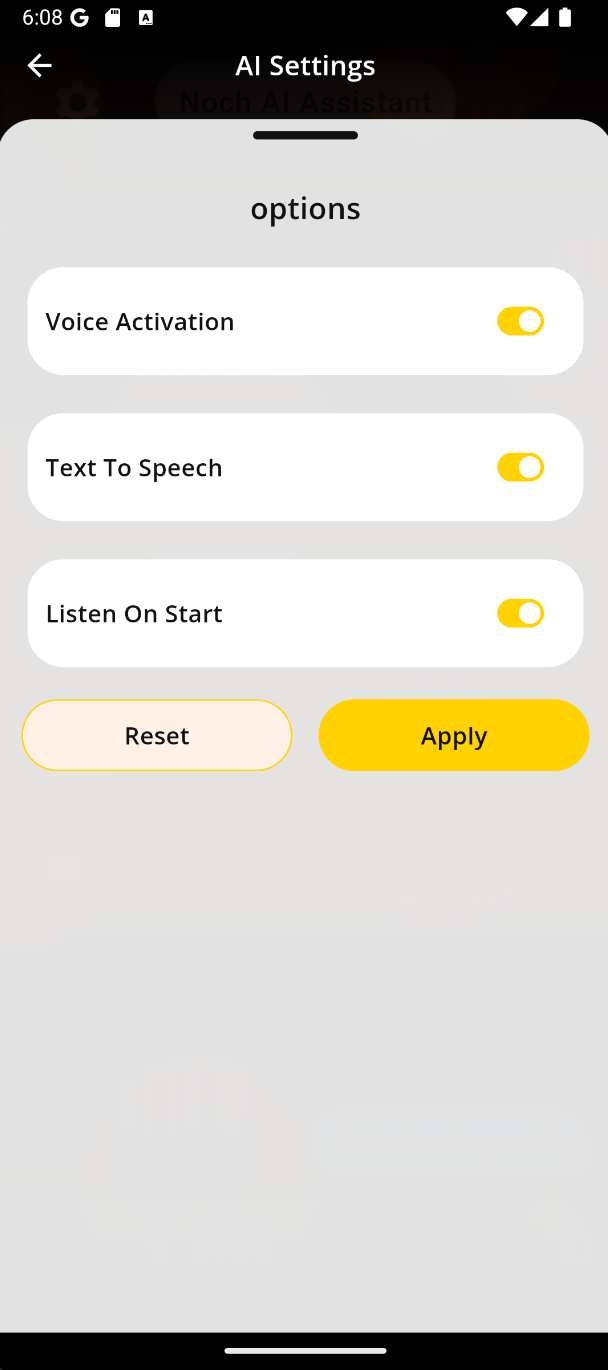
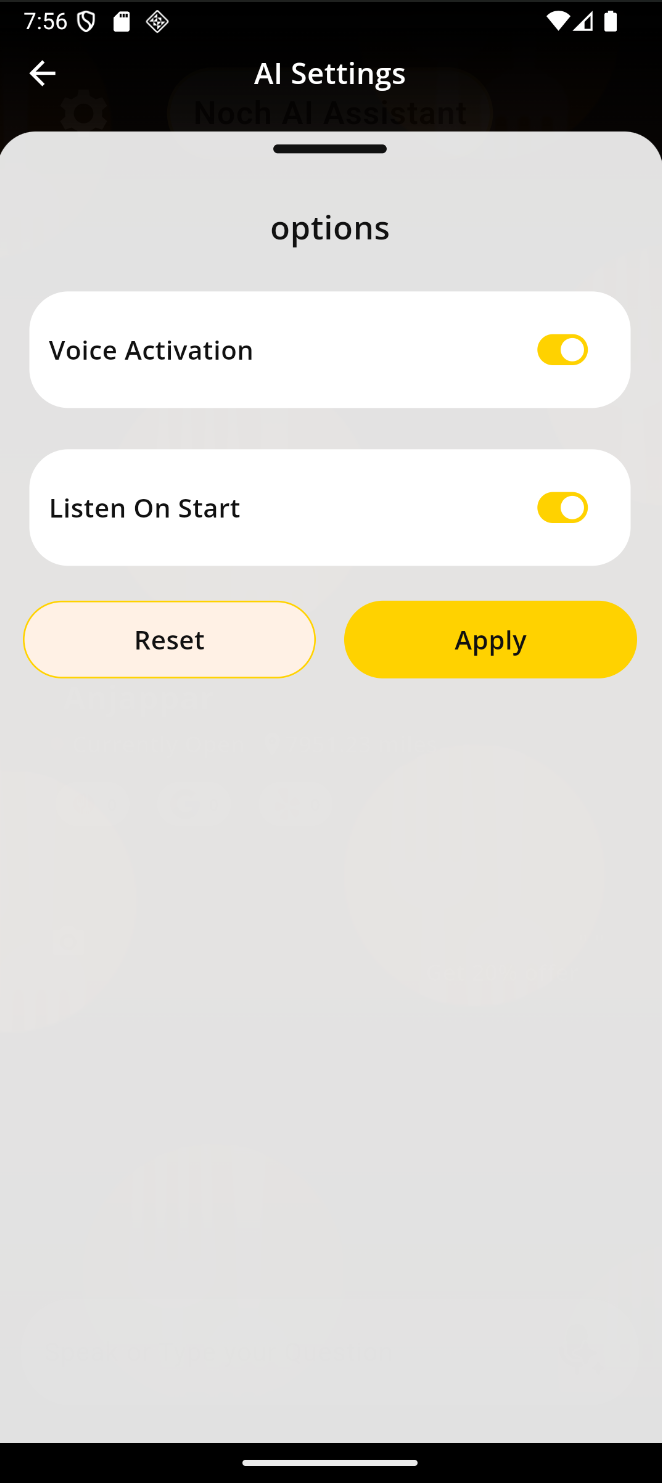
Updte Features and other minor improvements

diff --git a/website/src/pages/Home.jsx b/website/src/pages/Home.jsx
@@ -3,9 +3,10 @@ import { Link } from 'react-router-dom'
 export default function Home() {
   return (
     <div className="home-simple">
-      <h1>NOCH (Alpha)</h1>
-      <p className="home-subtitle">A social dining platform for restaurant discovery, reservations, and community. Currently in alpha.</p>
-      <p className="home-subtitle">Our role is to integrate AI features into the app to improve the user experience and access.</p>
+      <h1>NOCH AI (Alpha)</h1>
+      <p className="home-subtitle">NOCH is a social dining platform for restaurant discovery, reservations, and community. Currently in alpha.</p>
+      <p className="home-subtitle">NOCH AI's goals is to integrate AI features into the app to improve the user experience and access.</p>
+      <p className="home-subtitle">This site contains instructions on setup an alpha version of NOCH AI for testing and how to give feedback. This site also includes an end user license agreement (EULA) and privacy policy.</p>
 
       <h2>Getting Started</h2>
       <ul>

diff --git a/website/src/content/features-list.md b/website/src/content/features-list.md
@@ -5,16 +5,19 @@ For firsttime users of the app on onboarding page is added to explain the AI fea
 
 <img 
   src="/topnoch.github.io/Onboarding.png" 
-  alt="Onboarding Page" 
+  alt="Onboarding.png" 
   width="450" 
 />
+
+### Wake Word activation
+The AI overlay can be brought up from anywhere in the app (except login/onboarding) by saying the words "Hey NOCH."
 
 ### AI button
 In a couple of places throughout the app you can find the AI icon that will open up the AI overlay.
 
 <img 
   src="/topnoch.github.io/AiIcon.png" 
-  alt="AI Icon" 
+  alt="AiIcon.png" 
   width="450" 
 />
 
@@ -25,7 +28,7 @@ The AI overlay is the main point of communication with the AI. This is where you
 
 <img 
   src="/topnoch.github.io/AiOverlay.png" 
-  alt="AI Overlay" 
+  alt="AiOverlay.png" 
   width="450" 
 />
 
@@ -36,21 +39,40 @@ Current behaviors include.
 - Routing the user to different parts of the app.
 - Finding restraunts. (limited to only a few restraunts at this time.)
 
-### AI Settings (WIP)
+### AI Settings
 AI Settings can access by the user through the AI overlay and through the user profile. Note that some settings have no effect yet on the user experience.
-- Voice Activation (WIP)
-- Text To Speech (WIP)
-- Listen On Start (working)
+- Voice Activation: Allows the wake phrase "Hey NOCH" from within the app.
+- Listen On Start: Activates speech to text immediately when the AI overlay is activated.
 
 <img 
   src="/topnoch.github.io/AiSettings.png" 
-  alt="AI Settings" 
+  alt="AiSettings.png" 
+  width="450" 
+/>
+
+### Per-user Daily Token Limits
+Users have a daily token limit. Once the token limit is reached the AI is no longer usable and gives a response with when the limit will be reset. 
+
+<img 
+  src="/topnoch.github.io/TokenLimit.png" 
+  alt="TokenLimit.png"
+  width="450" 
+/>
+
+### Error Handling
+User friendly error messages under certain circumstances.
+- A temporary toast appears when trying to activate the microphone for speach to text in the AI overlay.
+- A toast error apears when adjusting AI settings but it can't connect to the internet.
+
+<img 
+  src="/topnoch.github.io/ErrorMessage.png" 
+  alt="ErrorMessage.png"
   width="450" 
 />
 
 ## Future Goals:
-- Voice activate the AI assistant from anywhere on the app by saying "Hey NOCH"
 - Add many more behaviors to the AI. Making reservations, leaving reviews, ordering ahead, navigating to restraunts, etc...
-- Add text to speech so the AI can audibly reply to prompts.
+- Add text to speech so the AI can audibly reply to prompts. A setting would accompany this to turn it off/on.
+- Testing and tuning the AI to work with more restraunts and behaviors, possibly with retrieval augmented generation (RAG). 
 
 --- 

diff --git a/website/src/content/privacy-policy.md b/website/src/content/privacy-policy.md
@@ -118,12 +118,6 @@ The NOCH website may contain links to other websites. Our privacy policy applies
 
 NOCH keeps its privacy policy under regular review and places any updates on this page. This privacy policy was last updated on **April 15, 2026**.
 
-## How to Contact Us
-
-If you have any questions about NOCH's privacy policy, the data we hold on you, or you would like to exercise one of your data protection rights, please do not hesitate to contact us:
-
-- **GitHub Issues:** [https://github.com/CPSECapstone/noch/issues](https://github.com/CPSECapstone/noch/issues)
-
 ## How to Contact the Appropriate Authority
 
 Should you wish to report a complaint or if you feel that NOCH has not addressed your concern in a satisfactory manner, you may contact your local data protection authority. In the EU, you can find your authority at [edpb.europa.eu](https://edpb.europa.eu/about-edpb/about-edpb/members_en).

diff --git a/website/src/content/install-user.md b/website/src/content/install-user.md
@@ -35,7 +35,7 @@ Here is how to install the app for beta testing.
 ## User-Guides: Logging In and Setup
 
 - To login enter the phone number ```000-000-0000``` and then enter the security code ```000000``` in order to login.
-- To re-experience the onboarding and login flow. Go to the app details and delete app data.
+- To re-experience the onboarding and login flow. Within the phone's settings, go to the app details and delete app data.
 - To find the app version. Use the build number on the APK that is downloaded and installed.
 
 ## Troubleshooting

diff --git a/website/src/content/eula.md b/website/src/content/eula.md
@@ -54,10 +54,4 @@ To the maximum extent permitted by applicable law, the Company shall not be liab
 
 This EULA agreement, and any dispute arising out of or in connection with this EULA agreement, shall be governed by and construed in accordance with the laws of California, United States.
 
-## Contact
-
-If you have any questions about this EULA, please contact us:
-
-- **GitHub Issues:** [https://github.com/CPSECapstone/noch/issues](https://github.com/CPSECapstone/noch/issues)
-
 ---
